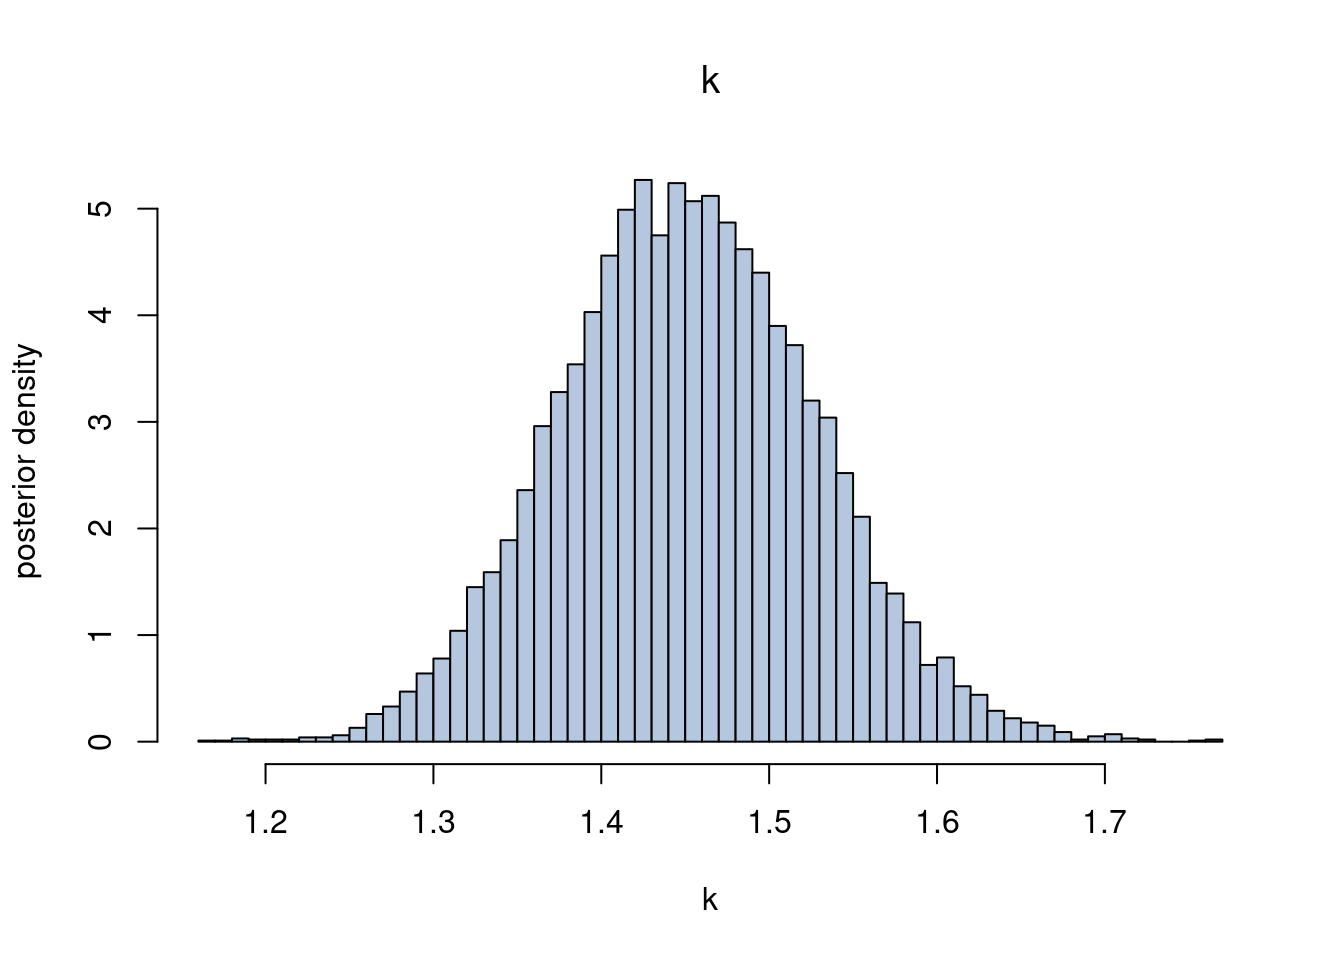
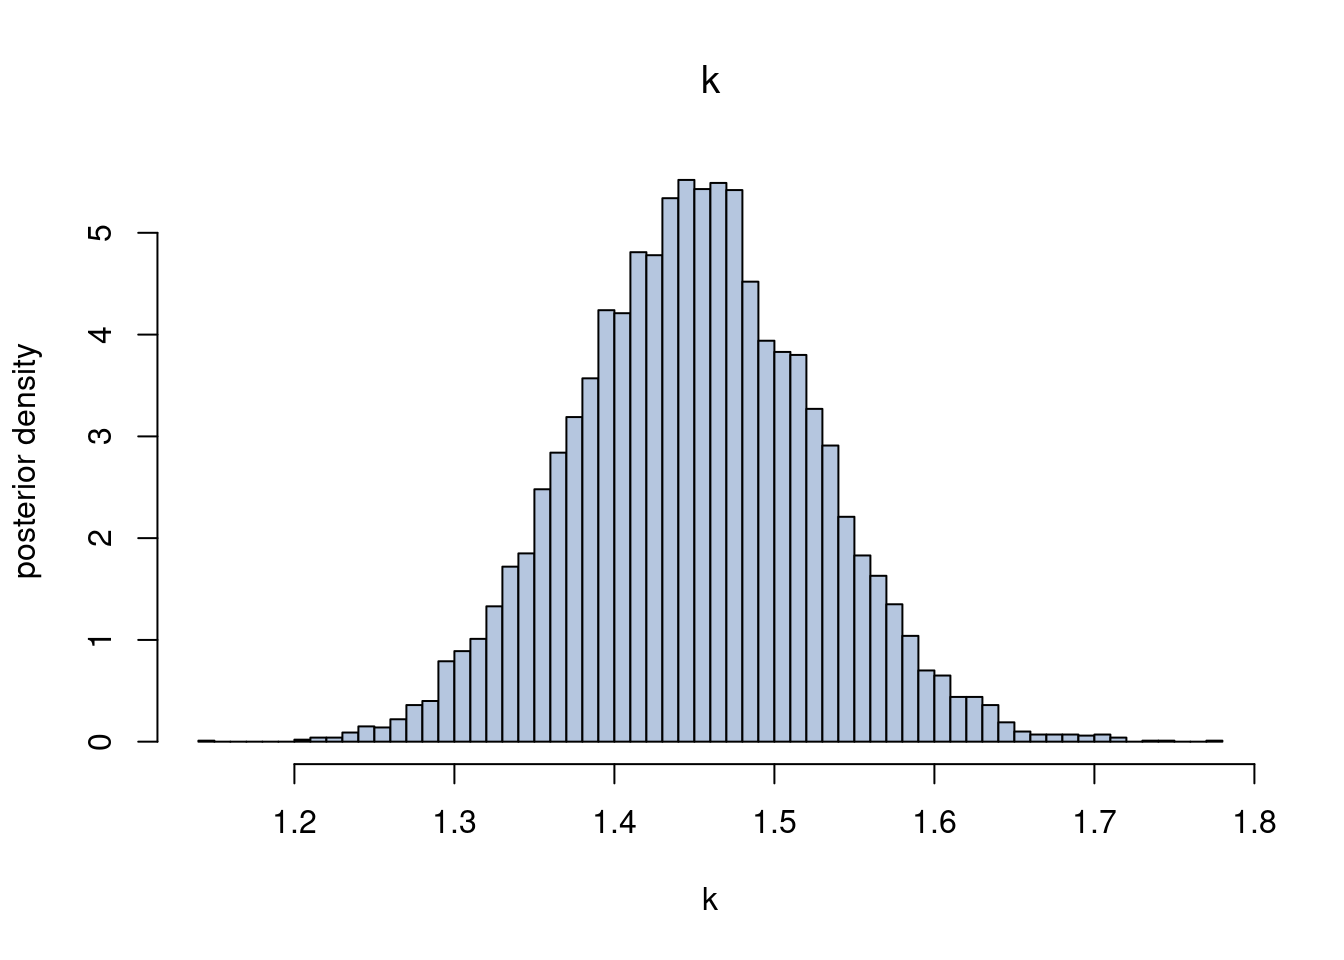
exercise ch 10

diff --git a/docs/exercises/ch10solutions.html b/docs/exercises/ch10solutions.html
@@ -8,7 +8,7 @@
 
 <meta name="author" content="Mattias Villani">
 
-<title>Chapter 2 - Exercise solutions – Bayesian Learning Book</title>
+<title>Chapter 10 - Exercise solutions – Bayesian Learning Book</title>
 <style>
 code{white-space: pre-wrap;}
 span.smallcaps{font-variant: small-caps;}
@@ -204,7 +204,7 @@ window.Quarto = {
 
 <header id="title-block-header" class="quarto-title-block default">
 <div class="quarto-title">
-<h1 class="title">Chapter 2 - Exercise solutions</h1>
+<h1 class="title">Chapter 10 - Exercise solutions</h1>
 </div>
 
 
@@ -341,18 +341,18 @@ make: *** [/usr/lib/R/etc/Makeconf:195: foo.o] Error 1</code></pre>
 <div class="sourceCode cell-code" id="cb9"><pre class="sourceCode r code-with-copy"><code class="sourceCode r"><span id="cb9-1"><a href="#cb9-1" aria-hidden="true" tabindex="-1"></a>s <span class="ot">&lt;-</span> <span class="fu">summary</span>(fit, <span class="at">pars =</span> <span class="fu">c</span>(<span class="st">"beta_"</span>, <span class="st">"k"</span>), <span class="at">probs =</span> <span class="fu">c</span>(<span class="fl">0.025</span>, <span class="fl">0.975</span>))</span>
 <span id="cb9-2"><a href="#cb9-2" aria-hidden="true" tabindex="-1"></a>s<span class="sc">$</span>summary  <span class="co"># results from all the different runs (chains) merged.</span></span></code><button title="Copy to Clipboard" class="code-copy-button"><i class="bi"></i></button></pre></div>
 <div class="cell-output cell-output-stdout">
-<pre><code>                 mean      se_mean         sd        2.5%        97.5%    n_eff
-beta_[1]  6.323183764 4.707963e-03 0.32624538  5.69660791  6.972984534 4802.006
-beta_[2] -0.002780692 7.680246e-05 0.00528345 -0.01329995  0.007373614 4732.438
-beta_[3]  0.236011257 1.130429e-03 0.09492970  0.05434784  0.427564364 7052.087
-beta_[4] -0.259322933 8.213059e-04 0.06960832 -0.39696702 -0.123985781 7183.108
-k         1.451674551 9.178104e-04 0.07622491  1.30678989  1.604862097 6897.439
-              Rhat
-beta_[1] 1.0003208
-beta_[2] 1.0001760
-beta_[3] 0.9999765
-beta_[4] 1.0004056
-k        0.9999669</code></pre>
+<pre><code>                 mean      se_mean          sd        2.5%        97.5%
+beta_[1]  6.323743731 4.899731e-03 0.324357870  5.69396365  6.968370965
+beta_[2] -0.002785857 7.991563e-05 0.005233737 -0.01315194  0.007362697
+beta_[3]  0.235519019 1.153045e-03 0.095728204  0.05189297  0.425089728
+beta_[4] -0.259906484 8.298041e-04 0.069748795 -0.39828751 -0.126092505
+k         1.450197010 9.165366e-04 0.075444237  1.30254072  1.601608659
+            n_eff      Rhat
+beta_[1] 4382.323 1.0008854
+beta_[2] 4289.043 1.0008358
+beta_[3] 6892.669 0.9999986
+beta_[4] 7065.164 0.9999039
+k        6775.673 0.9999232</code></pre>
 </div>
 </div>
 <p>Plotting the marginal posterior of <span class="math inline">\(k\)</span></p>
